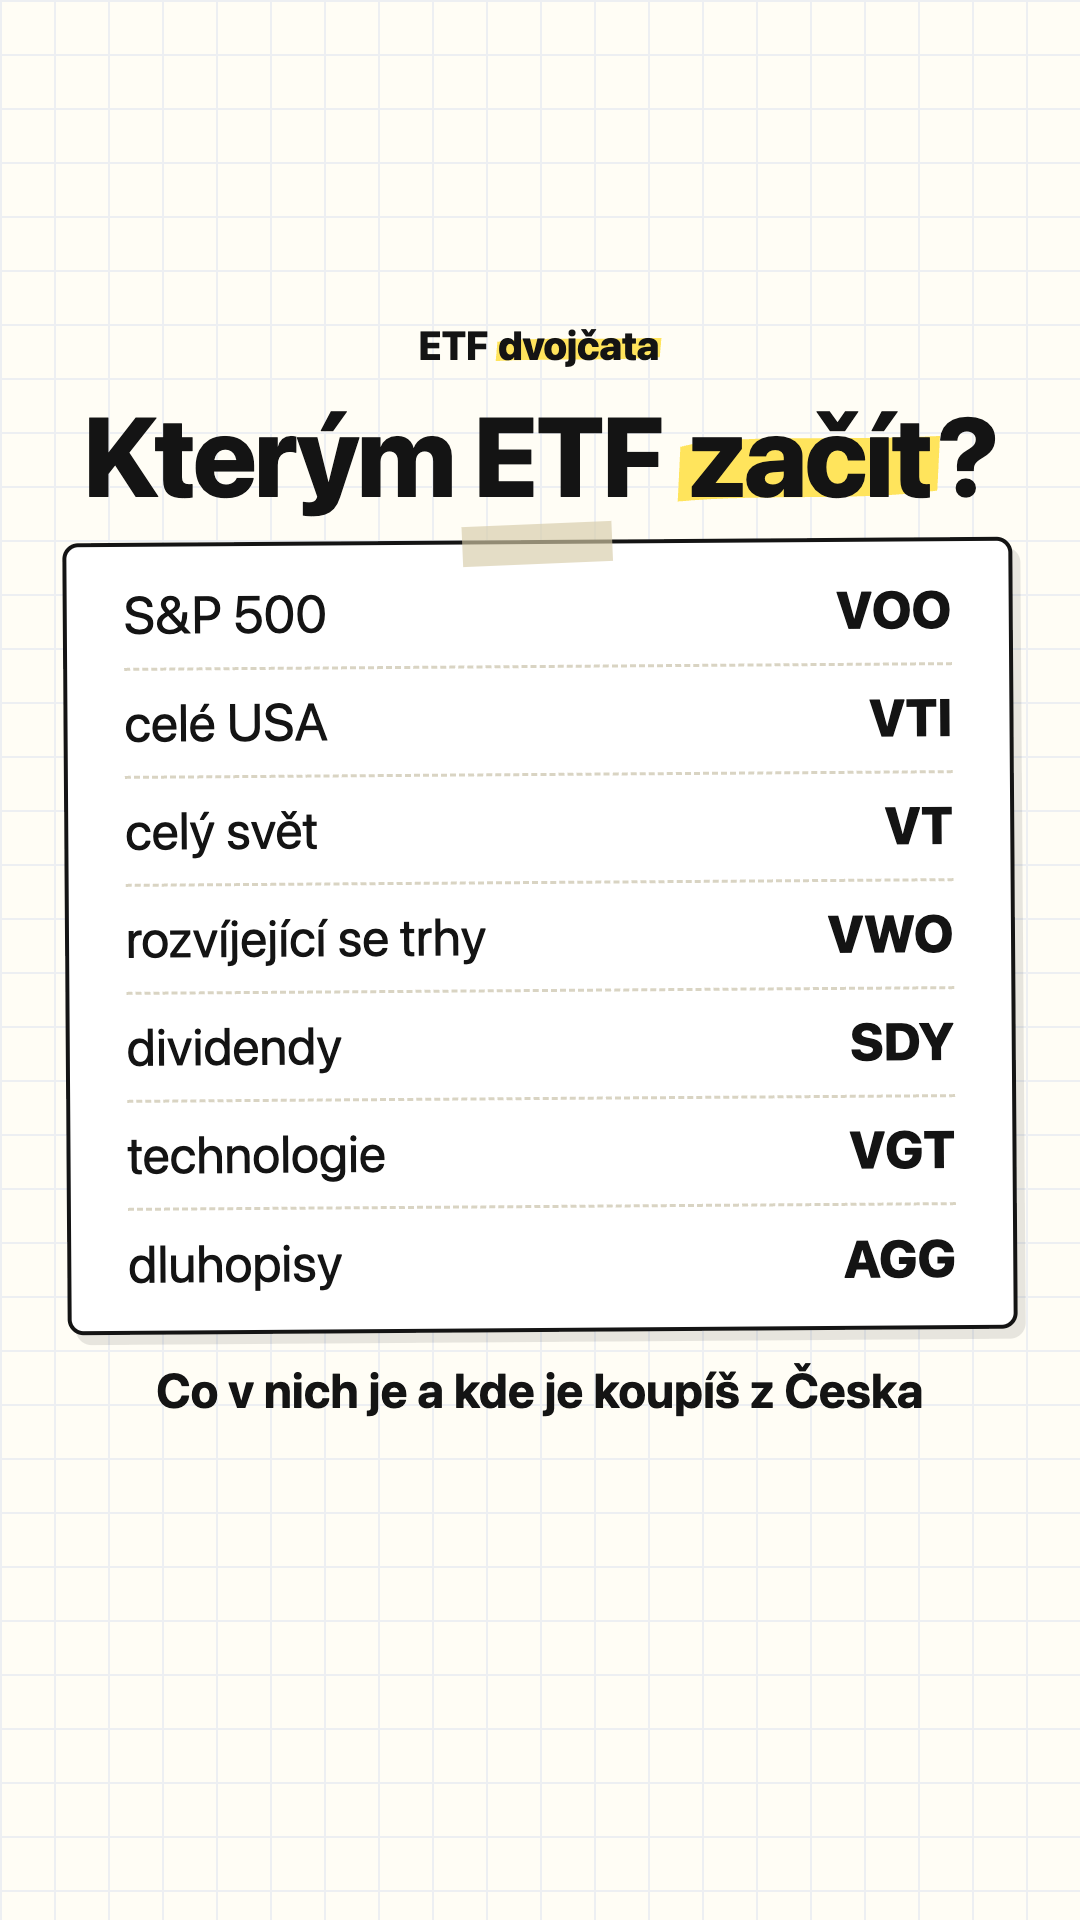
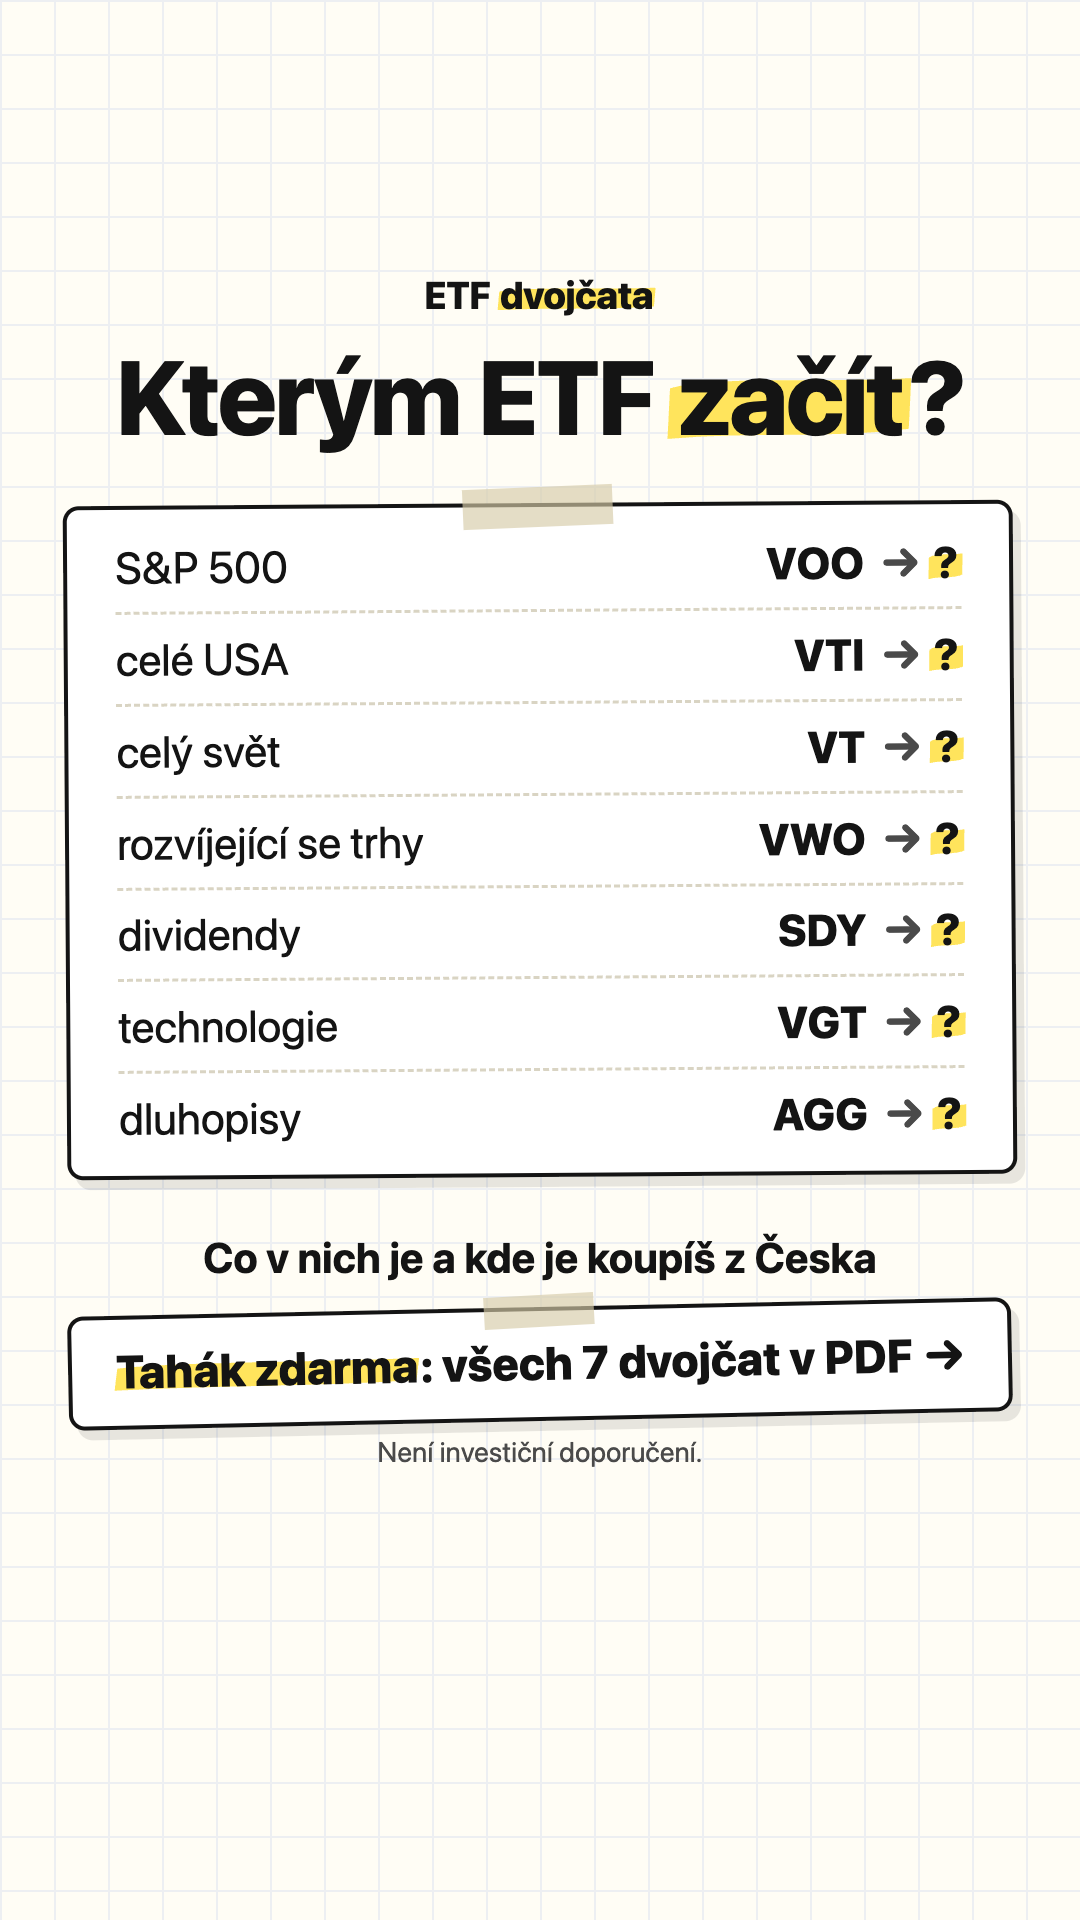
Reklamy s hookem a nabídkou: otázka u A, „→ ?“ u B, tahák zdarma
Podle zpětné vazby byly obrázky moc strohé:
- A: nahoře „Broker ti nenabídl VOO?“ a menší „Není to chyba.“ se
  žlutým fixem, nejvýraznější text po VUAA (vysvětluje přeškrtnuté VOO),
- B: u každého tickeru „→ ?“ s fixem, dvojčata záměrně neukazuje,
  odpověď je v taháku,
- obě: dole nabídka na lístku s páskou „Tahák zdarma: všech 7 dvojčat
  v PDF →“ (stejný slib jako výzva na stránce) a nenápadně „Není
  investiční doporučení.“,
- Stories: větší písmo a obsah rozložený do celé bezpečné výšky,
  nabídka dole nad zónou ovládání (270/450/65 px, skript kontroluje),
- popisy obrázků v reklamy/*.md a README aktualizované.

diff --git a/README.md b/README.md
@@ -69,12 +69,12 @@ Texty všech částí jsou v [texty.md](texty.md).
 
 ## Dvě verze reklamy
 
-Obě pro Meta (Facebook a Instagram) na mobilu: statický obrázek 4 : 5 do feedu a 9 : 16 do Stories a Reels, tlačítko „Zjistit víc“. Texty jsou v [reklamy/](reklamy/README.md). Obrázky generuje [scripts/reklamy.mjs](scripts/reklamy.mjs) z HTML ve stylu stránky (sešit, fix, lístky), takže jdou upravit a přegenerovat. U Stories a Reels je text mimo horních 270 px a dolních 450 px, kde je ovládání aplikace.
+Obě pro Meta (Facebook a Instagram) na mobilu: statický obrázek 4 : 5 do feedu a 9 : 16 do Stories a Reels, tlačítko „Zjistit víc“. Texty jsou v [reklamy/](reklamy/README.md). Obrázky generuje [scripts/reklamy.mjs](scripts/reklamy.mjs) z HTML ve stylu stránky (sešit, fix, lístky), takže jdou upravit a přegenerovat. Každá má nahoře hook z primárního textu, dole nabídku „Tahák zdarma: všech 7 dvojčat v PDF →“ (stejný slib jako výzva na stránce) a drobně „Není investiční doporučení.“ A ukazuje dvojče VOO, B dvojčata záměrně neukazuje („→ ?“ u tickerů), odpověď je v taháku. U Stories a Reels je text mimo horních 270 px a dolních 450 px, kde je ovládání aplikace.
 
 | | Feed 1080 × 1350 | Stories a Reels 1080 × 1920 |
 |---|---|---|
-| **A „Dvojče“** | <img src="reklamy/a-dvojce-feed.png" width="240" alt="Reklama A do feedu: VOO přeškrtnuté, šipka, VUAA v kroužku, evropské dvojče, koupíš z Česka"> | <img src="reklamy/a-dvojce-stories.png" width="190" alt="Reklama A do Stories"> |
-| **B „Začátek“** | <img src="reklamy/b-zacatek-feed.png" width="240" alt="Reklama B do feedu: Kterým ETF začít? a seznam 7 typů ETF s tickery"> | <img src="reklamy/b-zacatek-stories.png" width="190" alt="Reklama B do Stories"> |
+| **A „Dvojče“** | <img src="reklamy/a-dvojce-feed.png" width="240" alt="Reklama A do feedu: Broker ti nenabídl VOO? Není to chyba. VOO přeškrtnuté, šipka, VUAA v kroužku, nabídka taháku zdarma"> | <img src="reklamy/a-dvojce-stories.png" width="190" alt="Reklama A do Stories"> |
+| **B „Začátek“** | <img src="reklamy/b-zacatek-feed.png" width="240" alt="Reklama B do feedu: Kterým ETF začít? Seznam 7 typů ETF s tickery a otazníkem, nabídka taháku zdarma"> | <img src="reklamy/b-zacatek-stories.png" width="190" alt="Reklama B do Stories"> |
 
 | | A „Dvojče“ ([a-dvojce.md](reklamy/a-dvojce.md)) | B „Začátek“ ([b-zacatek.md](reklamy/b-zacatek.md)) |
 |---|---|---|

diff --git a/reklamy/a-dvojce.md b/reklamy/a-dvojce.md
@@ -23,14 +23,16 @@ Hotové obrázky: [a-dvojce-feed.png](a-dvojce-feed.png) (1080 × 1350) a [a-dvo
 
 **Feed 4 : 5**
 
-- Nahoře velký ticker **VOO**, pod ním šipka dolů a ještě větší **VUAA** v akcentní barvě zvoleného designu.
-- Pod VUAA jeden řádek: „evropské dvojče · koupíš z Česka“.
-- Dole drobně: „Stejný index S&P 500“. `[d: VOO › ucits_obdoba.rozdil_oproti_originalu]`
-- Žádní lidé s telefonem, žádná loga, žádné rozhraní brokera. Na obrázku nejvýš tři krátké řádky textu.
+- **Hook nahoře:** otázka z primárního textu „Broker ti nenabídl VOO?“ a pod ní menší „Není to chyba.“ se žlutým fixem. Je to nejvýraznější text po VUAA. Bez něj by nebylo jasné, proč je VOO přeškrtnuté.
+- Pod tím **VOO** přeškrtnuté jako na stránce, šipka dolů a největší **VUAA** v kroužku a se žlutým fixem na lístku s páskou.
+- Na lístku: „evropské dvojče · koupíš z Česka“, pod ním drobně „Stejný index S&P 500“. `[d: VOO › ucits_obdoba.rozdil_oproti_originalu]`
+- **Nabídka dole** (lístek s páskou, „Tahák zdarma“ se žlutým fixem): „Tahák zdarma: všech 7 dvojčat v PDF →“. Říká, co člověk po kliknutí dostane, stejně jako výzva na stránce („Chci tahák se všemi 7 dvojčaty“, „PDF hned a zdarma“).
+- **Pod ní nenápadně:** „Není investiční doporučení.“
+- Žádní lidé s telefonem, žádná loga, žádné rozhraní brokera. Původně „nejvýš tři řádky textu“; hook a nabídka přibyly, protože bez nich byla reklama moc strohá (zpětná vazba 11. 10. 2026).
 
 **Stories a Reels 9 : 16**
 
-- Stejný obsah, VOO a VUAA nad sebou, víc vzduchu.
+- Stejný obsah, větší písmo a rozložený do celé bezpečné výšky: hook nahoře, VOO → VUAA uprostřed, nabídka dole nad zónou ovládání.
 - Text je mimo horních 270 px, dolních 450 px a 65 px po stranách (ovládání Instagramu a Facebooku; skript to kontroluje). Oficiální zóny Meta jsem neověřil, jen z návodů třetích stran, které se rozcházejí (dole 250–670 px), proto před spuštěním zkontrolovat v náhledu Ads Manageru.
 
 ## Navazující úvod stránky

diff --git a/reklamy/b-zacatek.md b/reklamy/b-zacatek.md
@@ -40,10 +40,13 @@ Hotové obrázky: [b-zacatek-feed.png](b-zacatek-feed.png) (1080 × 1350) a [b-z
   - dluhopisy · AGG
 
   `[d: * › typ]`
+- U každého tickeru „→ ?“ (otazník se žlutým fixem): dvojčata reklama záměrně neukazuje, odpověď je v taháku a na stránce.
 - Žádný řádek není zakroužkovaný ani označený jako „nejlepší“, nic nedoporučujeme.
-- Dole jeden řádek: „Co v nich je a kde je koupíš z Česka“.
+- Pod seznamem: „Co v nich je a kde je koupíš z Česka“.
+- **Nabídka dole** (lístek s páskou, „Tahák zdarma“ se žlutým fixem): „Tahák zdarma: všech 7 dvojčat v PDF →“. Říká, co člověk po kliknutí dostane, stejně jako výzva na stránce („Chci tahák se všemi 7 dvojčaty“, „PDF hned a zdarma“).
+- **Pod ní nenápadně:** „Není investiční doporučení.“
 
-**Stories a Reels 9 : 16:** stejný seznam, větší písmo, text je mimo horních 270 px, dolních 450 px a 65 px po stranách (ovládání Instagramu a Facebooku; skript to kontroluje). Oficiální zóny Meta jsem neověřil, jen z návodů třetích stran, které se rozcházejí (dole 250–670 px), proto před spuštěním zkontrolovat v náhledu Ads Manageru.
+**Stories a Reels 9 : 16:** stejný obsah, větší písmo, rozložený do celé bezpečné výšky (nabídka dole nad zónou ovládání), text je mimo horních 270 px, dolních 450 px a 65 px po stranách (ovládání Instagramu a Facebooku; skript to kontroluje). Oficiální zóny Meta jsem neověřil, jen z návodů třetích stran, které se rozcházejí (dole 250–670 px), proto před spuštěním zkontrolovat v náhledu Ads Manageru.
 
 ## Navazující úvod stránky
 
